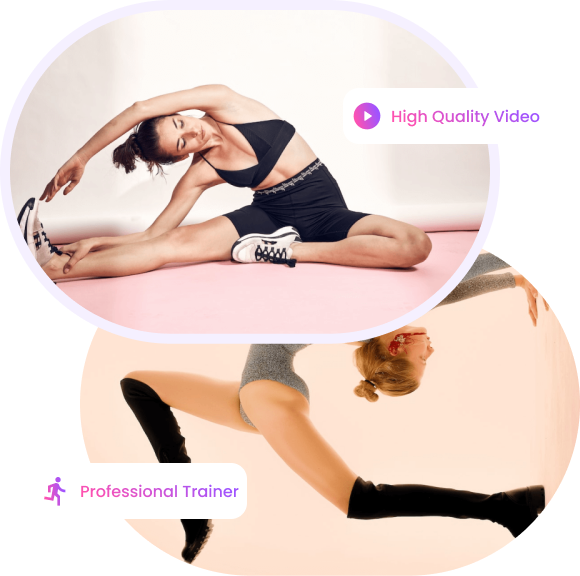
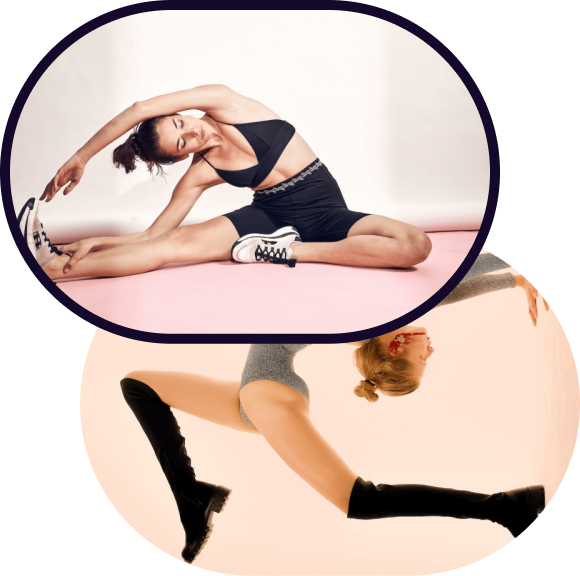
feat: complete top 4 element

Changed region(s): [[0.0, 0.0, 0.931, 0.625], [0.0621, 0.7812, 0.4345, 0.9062]]

diff --git a/styles.css b/styles.css
@@ -248,18 +248,88 @@ p {
     padding: 2rem;
 }
 
+.workout-info {
+    flex: 1;
+}
+
 .workout-images {
     flex: 1;
     display: flex;
     justify-content: flex-end;
 }
 
-.workout-image {
-    height: auto;
+.workout-image-container {
+    position: relative;
     width: 100%;
     border-radius: 2rem;
     overflow: hidden;
-    position: relative;
+}
+
+.workout-image {
+    width: 100%;
+    height: auto;
+    border-radius: 2rem;
+}
+
+/* Video Label for High Quality Video */
+.video-label {
+    position: absolute;
+    top: 1rem;
+    right: 1rem; /* Aligns the label to the right side */
+    display: flex;
+    align-items: center;
+    background-color: #4a0c6b;
+    color: #ff7ad1;
+    border-radius: 1rem;
+    padding: 0.5rem 1rem;
+    font-size: 0.9rem;
+}
+
+.video-label .icon-heart {
+    font-size: 1.2rem;
+    margin-left: 0.5rem; /* Adjusts spacing between text and icon */
+}
+
+/* Trainer Badge */
+.trainer-badge {
+    position: absolute;
+    bottom: 1rem;
+    left: 1rem;
+    display: flex;
+    align-items: center;
+    background-color: #4a0c6b;
+    color: #ff7ad1;
+    border-radius: 1rem;
+    padding: 0.5rem 1rem;
+    font-size: 0.9rem;
+}
+
+.trainer-badge::before {
+    content: "🏃"; /* Replace with an appropriate icon */
+    font-size: 1.2rem;
+    margin-right: 0.5rem;
+}
+
+/* Background Overlay */
+.background-overlay {
+    position: absolute;
+    bottom: 0;
+    left: 0;
+    width: 100%;
+    height: 60%;
+    background-color: rgba(233, 213, 255, 0.3);
+    clip-path: path('M0,100 C30,90 70,90 100,100 L100,100 L0,100');
+}
+
+/* CTA Button */
+.cta-button {
+    display: inline-block;
+    padding: 0.75rem 1.5rem;
+    background-color: #4a0c6b;
+    color: #ffffff;
+    border-radius: 1rem;
+    text-decoration: none;
+    font-weight: bold;
 }
 
 .fitness-image {

diff --git a/index.html b/index.html
@@ -74,14 +74,23 @@
     </section>
 
     <section class="workout-section">
-        <div class="section-content">
+        <div class="workout-info">
             <h2>Anytime, Any Place, Any Workout</h2>
             <p>Take your routine at any time of your day, with the new videos and with the teachers who will guide you.</p>
-            <a href="#" class="button">Get Started Free →</a>
+            <a href="#" class="cta-button">Get Started Free →</a>
         </div>
         <div class="workout-images">
-            <div class="workout-image">
-                <img src="./images/workout.png" alt="Workout pose 1">
+            <div class="workout-image-container">
+                <div class="background-overlay"></div>
+                
+                <img src="./images/workout.png" alt="Exercise pose" class="workout-image">
+                <div class="video-label">
+                    <span class="icon-heart">▶</span>
+                    <div>
+                        <span>High Quality Video</span>
+                    </div>
+                </div>
+                <div class="trainer-badge">Professional Trainer</div>
             </div>
         </div>
     </section>
